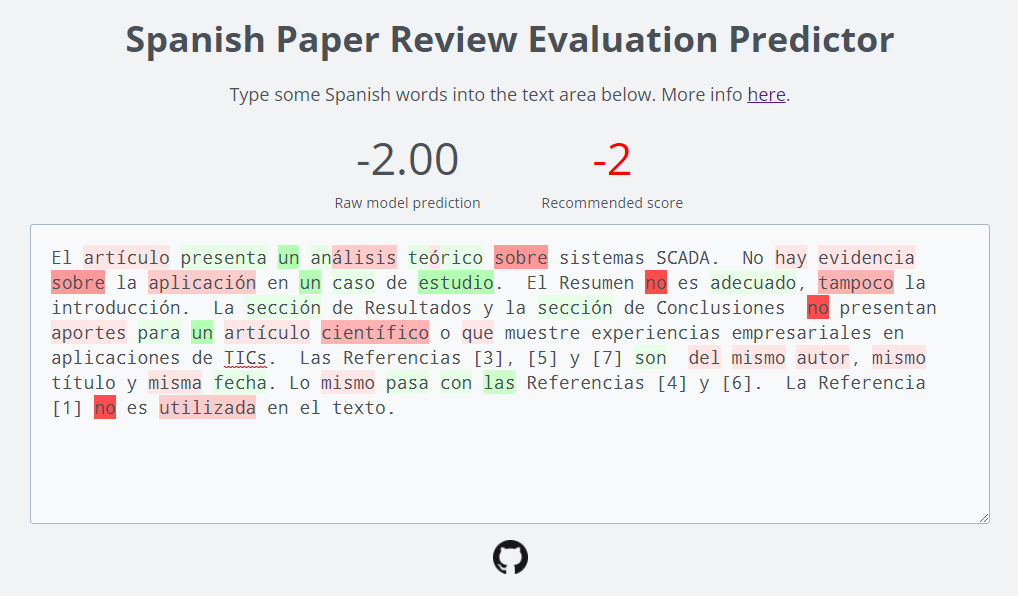
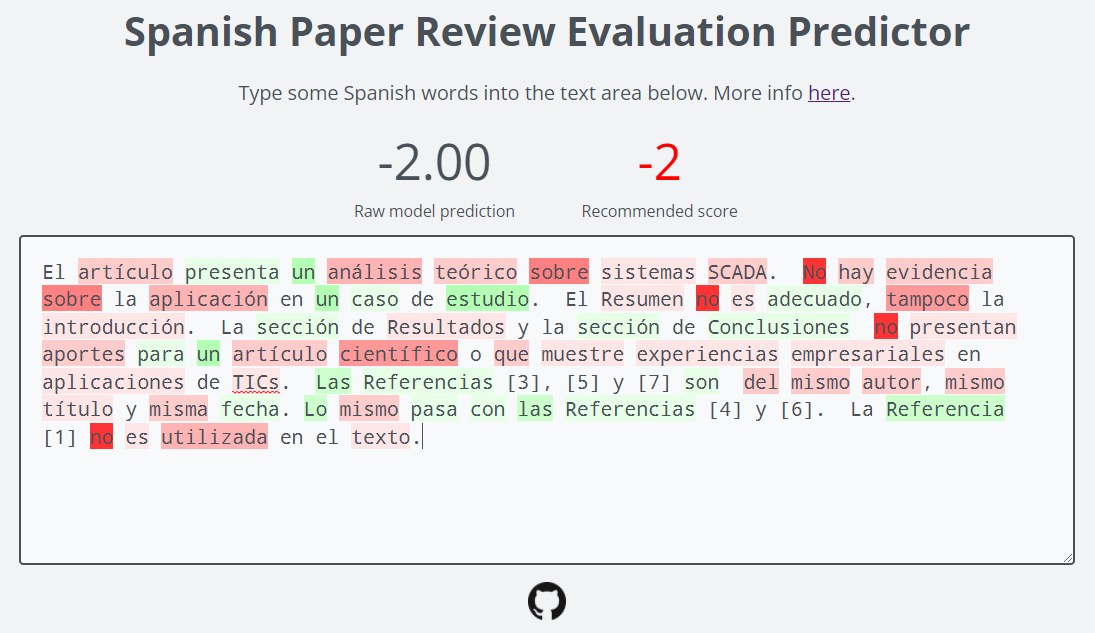
bug fixes

Changed region(s): [[0.0, 0.2114, 1.0, 0.9966], [0.0914, 0.0302, 0.8831, 0.0906], [0.2132, 0.1208, 0.7917, 0.1812]]

diff --git a/public/static/js/main.js b/public/static/js/main.js
@@ -11,7 +11,10 @@ function generateOptions(){
         response = JSON.parse(json_response);
         for (const [colorClass, words] of Object.entries(response)) {
             highlightOptions.push({
-                highlight: RegExp(`\\b(${words.join('|')})\\b`, "gm"),
+                // Explicit definition of word characters used with negative lookahead and lookbehind because
+                // JavaScript's implementation of Regex does not recognise accented characters as word characters
+                // https://stackoverflow.com/questions/2449779/why-cant-i-use-accented-characters-next-to-a-word-boundary
+                highlight: RegExp(`(?<![A-Za-zÀ-ÖØ-öø-ÿ])(${words.join('|')})(?![A-Za-zÀ-ÖØ-öø-ÿ])`, "gmiu"),
                 className: colorClass
             })
         }

diff --git a/public/app.py b/public/app.py
@@ -53,9 +53,10 @@ def get_features():
         class_name = f'green{i}'
         if features:
             classes_and_features[class_name] = features
+    # Negative features (red highlight)
     for i in range(1, 9):
-        these_features = feature_df.loc[(feature_df['Coefficient'] > (-i-1)/10)
-                                        & (feature_df['Coefficient'] < -i/10)]
+        these_features = feature_df.loc[(feature_df['Coefficient'] < -(i-1)/10)
+                                        & (feature_df['Coefficient'] > -i/10)]
         features = these_features['Feature'].tolist()
         class_name = f'red{i}'
         if features:

diff --git a/private/04.py b/private/04.py
@@ -6,6 +6,7 @@ features (words) for the trained linear regression model.
 """
 
 import pandas as pd
+import numpy as np
 import matplotlib.pyplot as plt
 import seaborn as sns
 import pickle
@@ -56,6 +57,8 @@ def main():
     print(list(reversed(list(features.tail(10)['Feature']))))
 
     print(bag_of_words_lr.predict([x]))
+
+    print(np.mean(reviews['Evaluation']))
 
 
 # ====================
